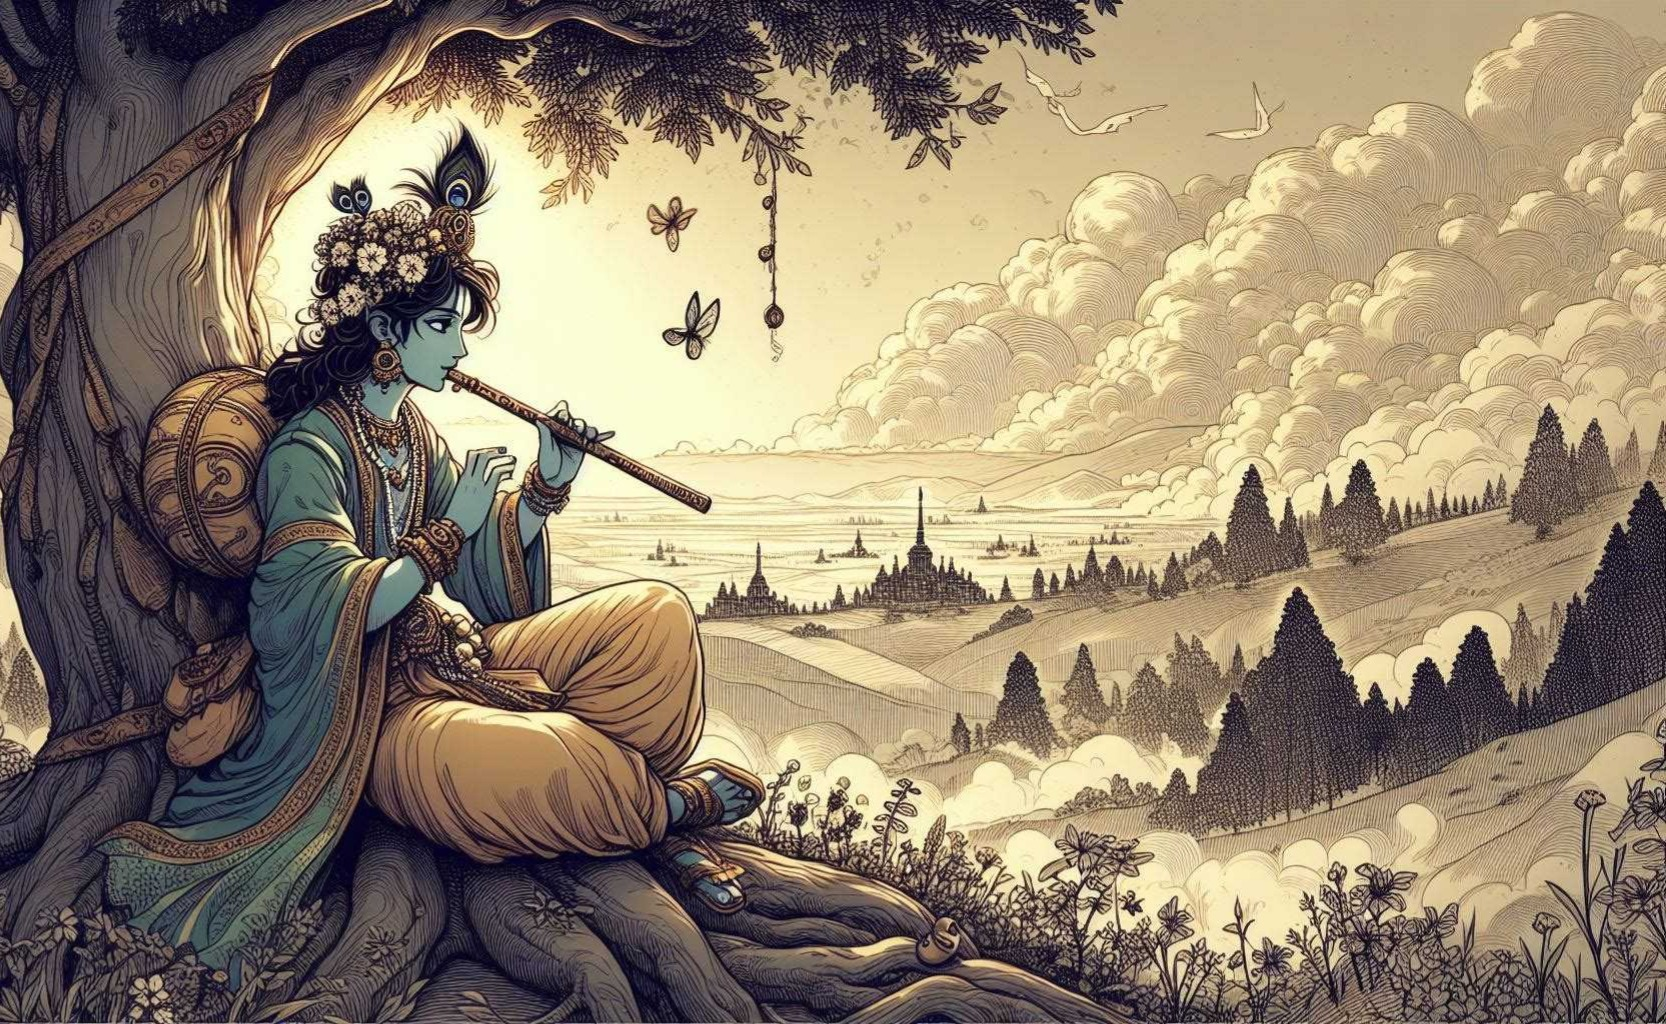
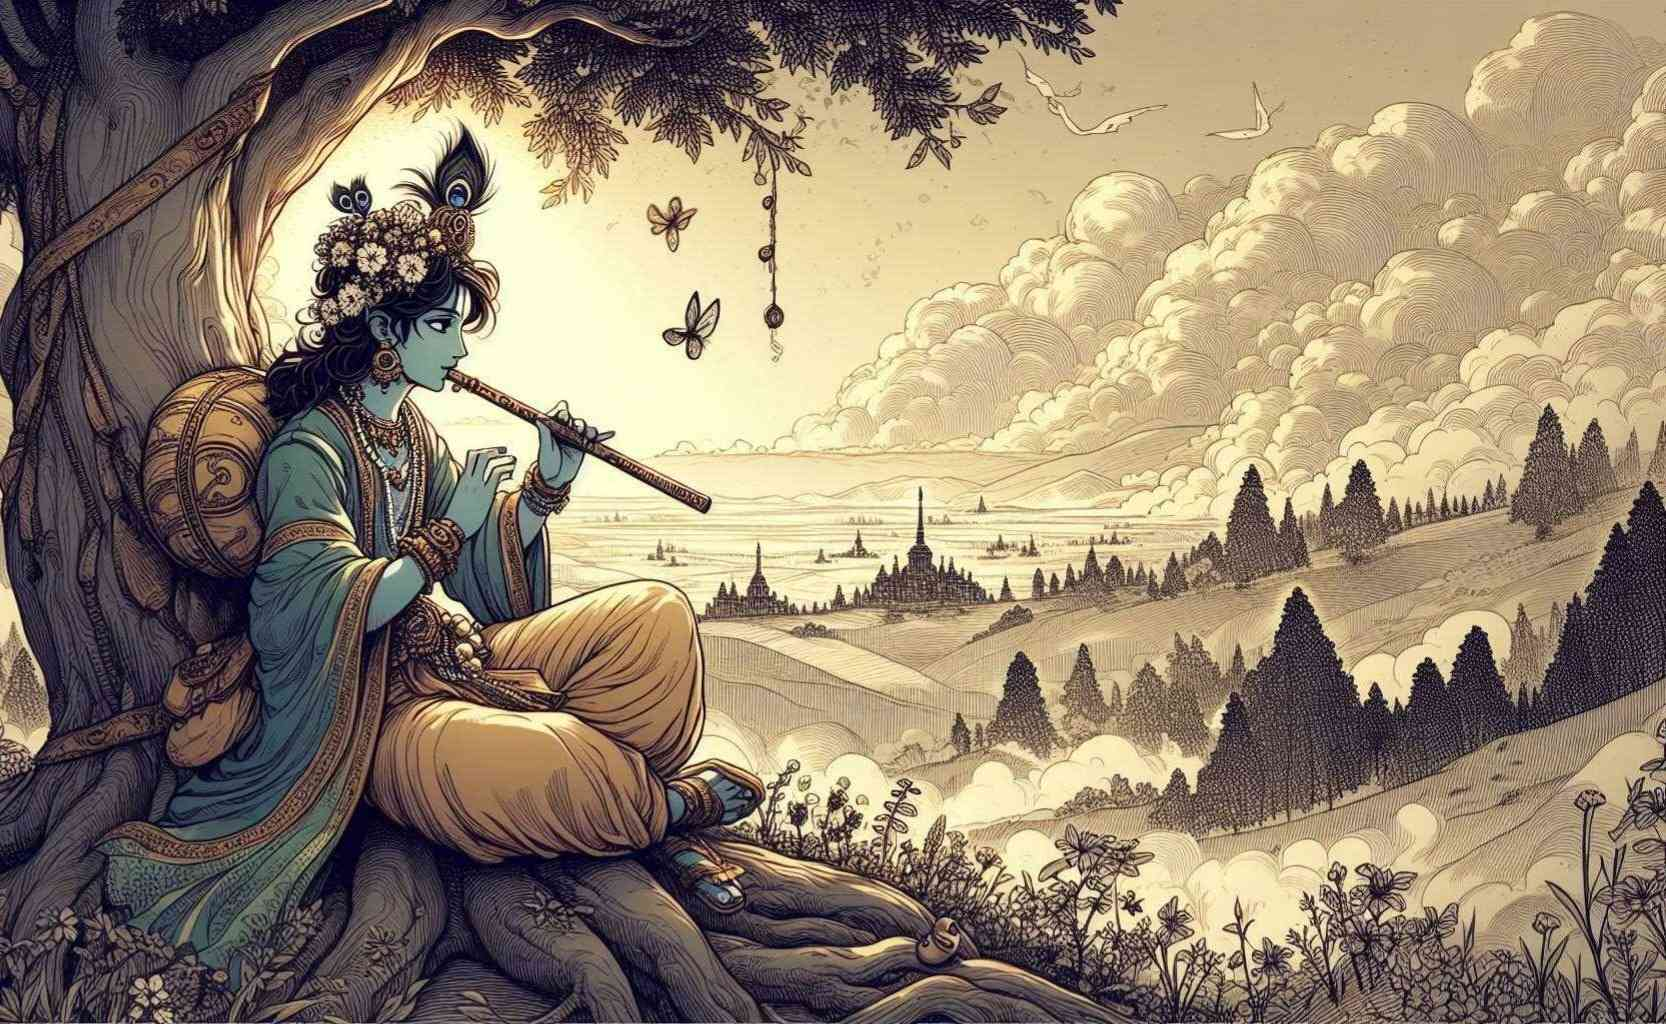
image size and file extantion

diff --git a/index.html b/index.html
@@ -219,7 +219,7 @@
     
     <div id="particles-js"></div>
 
-    <img class="krishna-profile" src="./Assets/krishna profile1.JPG" alr="krishna Profile Pic">
+    <img class="krishna-profile" src="./Assets/krishna profile1.PNG" alr="krishna Profile Pic">
     <h1><span class="welcome" >Welcome to </span><span class="krishna">Shree Krishna</span><span class="welcome"> Ai</span></h1>
 
     <p class="quote" id="quote"><span id="text"></span><span class="cursor" id="cursor"></span></p>
